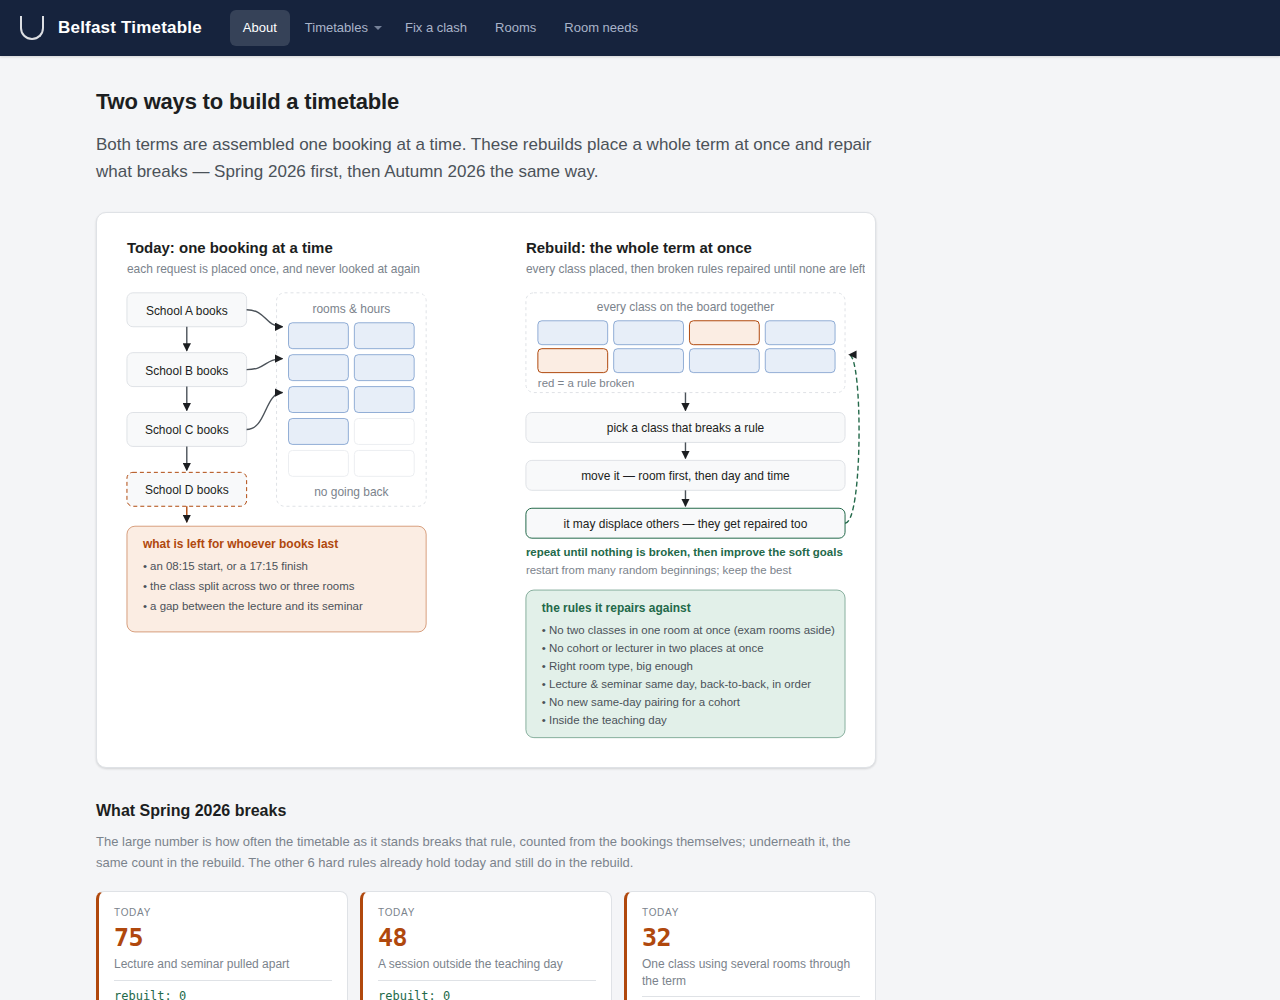
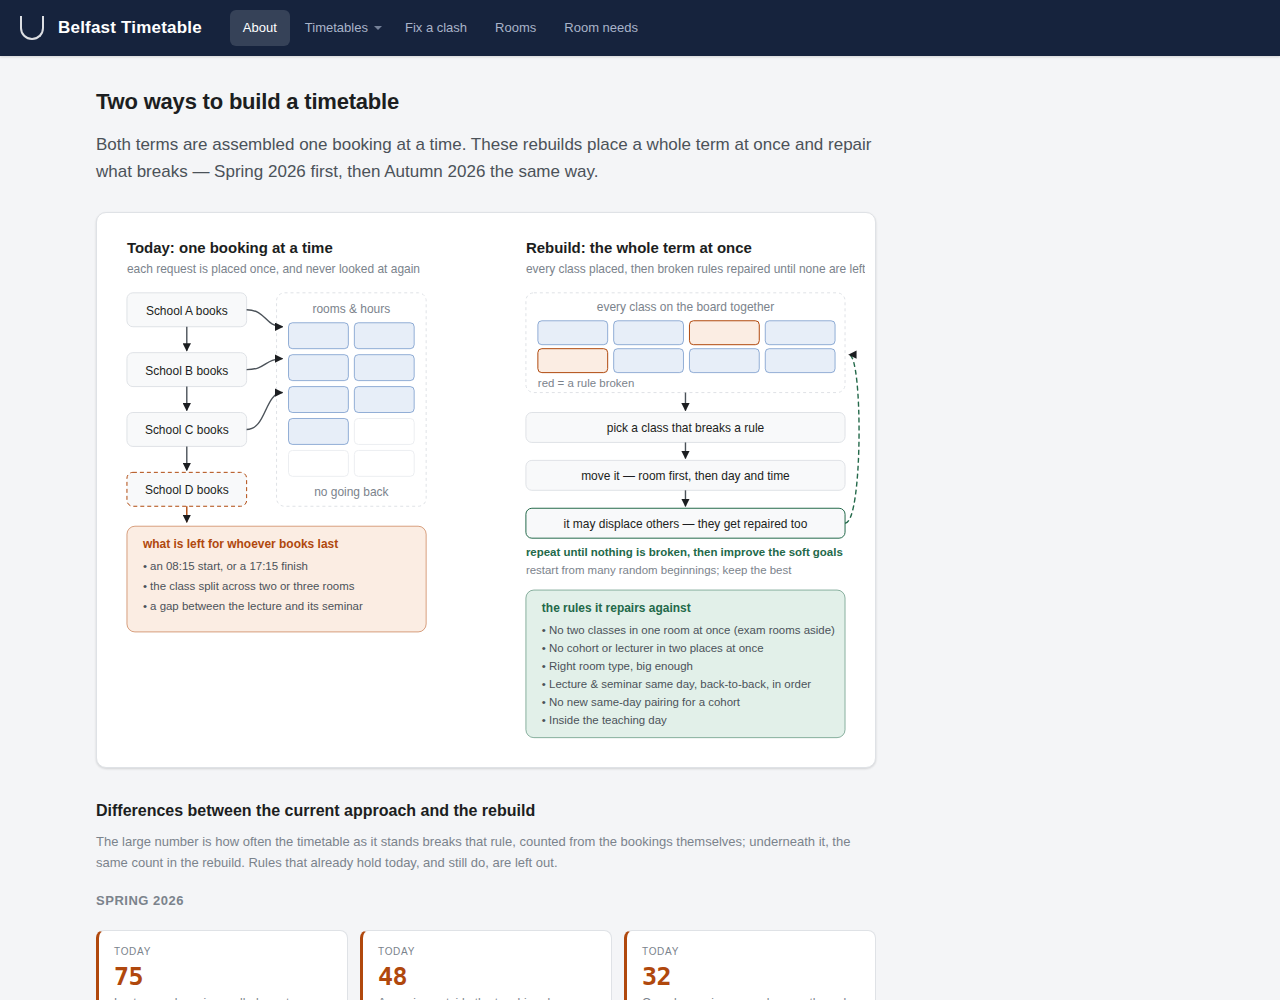
Both terms' cards together, right after the graphic
The autumn numbers were at the very bottom, after everything, which
read as an afterthought rather than the other half of the comparison.
Spring's cards and autumn's now sit together directly under the
algorithm graphic, each under its term, and the two hour-by-hour charts
follow one after the other.

The heading is "Differences between the current approach and the
rebuild" rather than "What Spring 2026 breaks", which was both narrower
than the section and wrong once autumn joined it.

What stays at the bottom is autumn's own story — what it took to get
there — with no cards or chart of its own.

Claude-Session: https://claude.ai/code/session_01MXfb615SCLwARwyeWvxCJ7

diff --git a/docs/assets/method.js b/docs/assets/method.js
@@ -246,9 +246,6 @@
         : '<div class="note good"><p style="margin:0"><strong>Every hard rule holds in the ' +
           'autumn rebuild too.</strong> It is shown for reading rather than re-checked here, ' +
           'so this count is the solver\u2019s own.</p></div>'),
-      autumnTiles(t),
-      hourChartRows(H, 'autumn', 'autumnNew', 'When autumn teaches'),
-
       '<p class="small muted">Getting there took corrections rather than a better search, and ',
       'the corrections came from timetabling: sixty-two confirmed cohort sizes across the ',
       'two terms, two classes ',
@@ -265,7 +262,7 @@
   }
 
   /** Autumn's rule counts, tile for tile with spring's. */
-  function autumnTiles(t) {
+  function autumnTiles(t, heading) {
     var sc = t.score;
     if (!sc) return '';
     function tile(v, k, sub, cls) {
@@ -274,7 +271,8 @@
     }
     var broken = RULE_ORDER.filter(function (k) { return sc.now[k]; });
     if (!broken.length) return '';
-    return '<div class="stats">' + broken.map(function (k) {
+    return '<h4 class="term-sub">' + heading + '</h4><div class="stats">' +
+      broken.map(function (k) {
       return tile(fmtN(sc.now[k]), TILE_LABELS[k], 'rebuilt: ' + fmtN(sc.fixed[k] || 0), 'warn');
     }).join('') + '</div>' +
       (sc.overflow
@@ -467,7 +465,7 @@
     ].join('');
   }
 
-  function hourChart(model, assign) {
+  function hourChart(model, assign, title) {
     // The teaching day runs 09:15 to 17:15, so the bars are its eight slots
     // rather than clock hours: counting 9-to-10 and 17-to-18 as hours makes
     // the two ends look quiet when they are only partly inside the day.
@@ -485,7 +483,7 @@
         }
       }
     });
-    return barChart(now, rebuilt, 'Classes running in each hour of the teaching day',
+    return barChart(now, rebuilt, title || 'Classes running in each hour of the teaching day',
       'Classes running in each hour of the day, today against the rebuild.');
 
   }
@@ -667,14 +665,15 @@
 
       graphic(),
 
-      '<h3>What Spring 2026 breaks</h3>',
+      '<h3>Differences between the current approach and the rebuild</h3>',
       '<p class="small muted">The large number is how often the timetable as it stands breaks ',
       'that rule, counted from the bookings themselves; underneath it, the same count in the ',
-      'rebuild. The other ' + (RULE_ORDER.length - brokenNow.length) + ' hard rules already hold ',
-      'today and still do in the rebuild.</p>',
+      'rebuild. Rules that already hold today, and still do, are left out.</p>',
+      '<h4 class="term-sub">Spring 2026</h4>',
       '<div class="stats">',
       ruleTiles,
       '</div>',
+      autumnTiles(H.terms.autumnNew, 'Autumn 2026'),
       '<p class="small muted">The room rule itself already holds today: ' + TODAY.sharedRoomPairs +
       ' pairs of bookings do hold one room at the same time, and every one of them is shared ',
       'teaching \u2014 architecture and art studios, the hospitality kitchen, a joint sports ',
@@ -683,6 +682,9 @@
       'room, one of them ' + TODAY.maxRooms + ', which is ' + fmtN(TODAY.splitExtra) + ' of the ',
       'term\u2019s ' + fmtN(TODAY.roomBookings) + ' room-bookings. All ' + b2b + ' of ' + groups +
       ' lecture+seminar pairs run back-to-back.</p>',
+
+      hourChart(model, a.solved, 'Spring 2026: classes running in each hour'),
+      hourChartRows(H, 'autumn', 'autumnNew', 'Autumn 2026: bookings running in each hour'),
 
       // ------------------------------------------------ why it always clashes
       '<h2>The current method will always clash</h2>',
@@ -703,8 +705,6 @@
       '<li><strong>The rest is settled by hand</strong> in the weeks before term, one email at ',
       'a time. It recurs every year because the method produces it, not the term.</li>',
       '</ul>',
-
-      hourChart(model, a.solved),
 
       stripeGraphic(),
 

diff --git a/docs/assets/style.css b/docs/assets/style.css
@@ -271,6 +271,10 @@ li { margin-bottom: 6px; }
 /* A whole-module chip, ahead of its individual classes. */
 .chip.mod { border-color: var(--accent); color: var(--accent); }
 
+/* Which term a row of cards belongs to. */
+.term-sub { font-size: 13px; font-weight: 600; letter-spacing: .04em;
+  text-transform: uppercase; color: var(--muted); margin: 18px 0 0; }
+
 /* ---------- callouts ---------- */
 
 .note {
